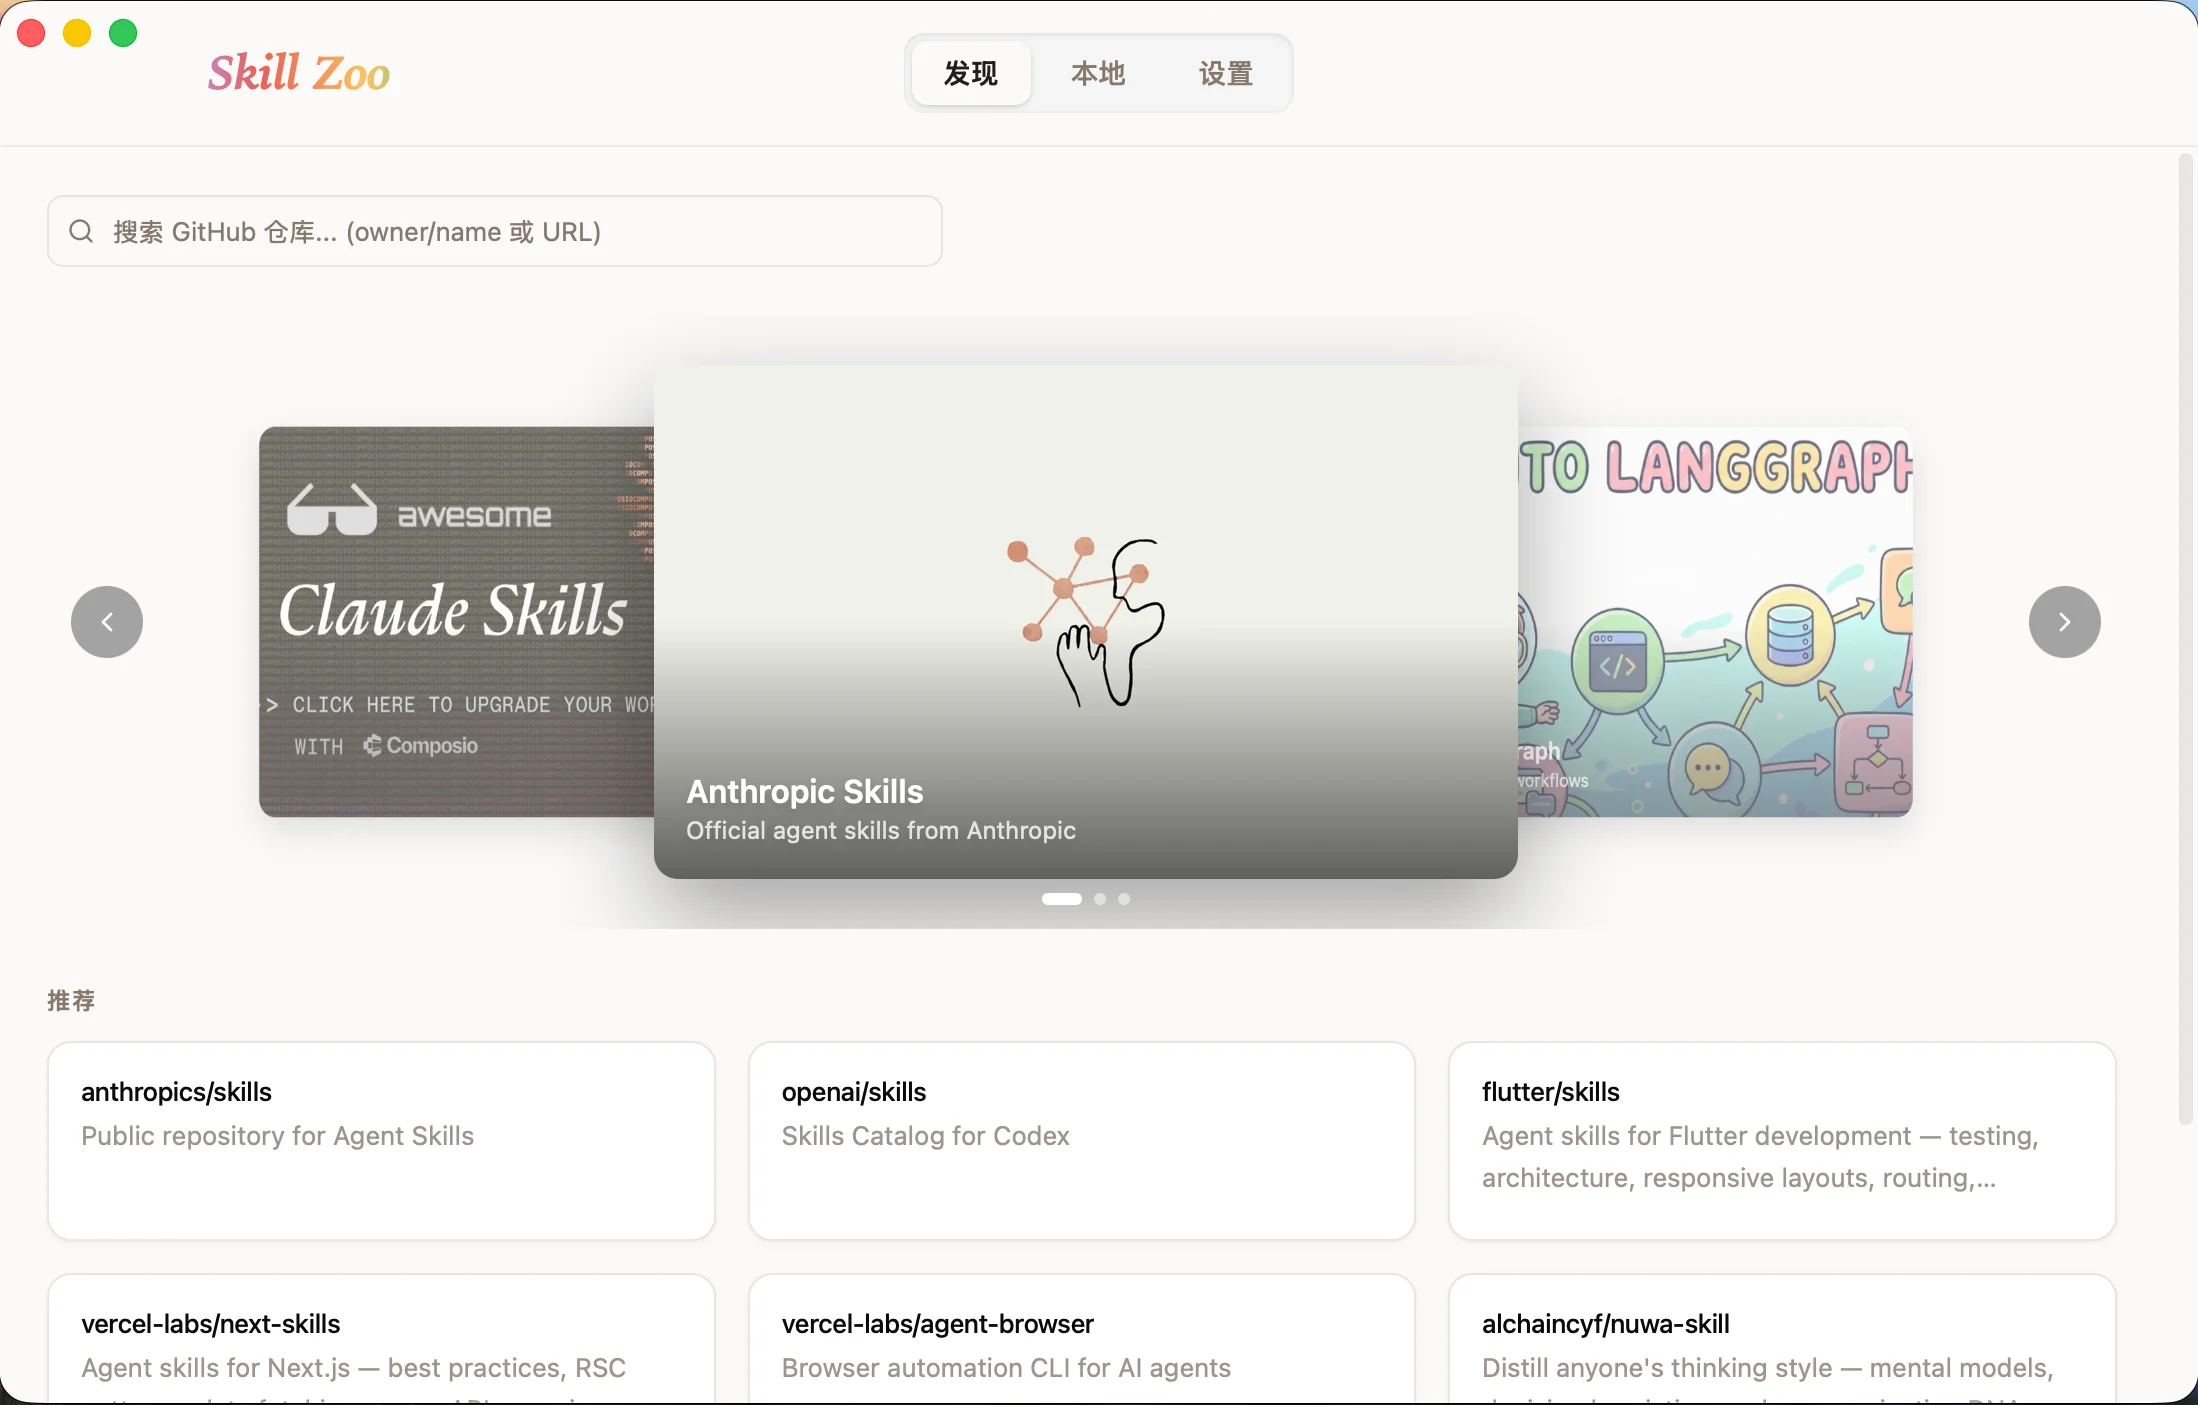
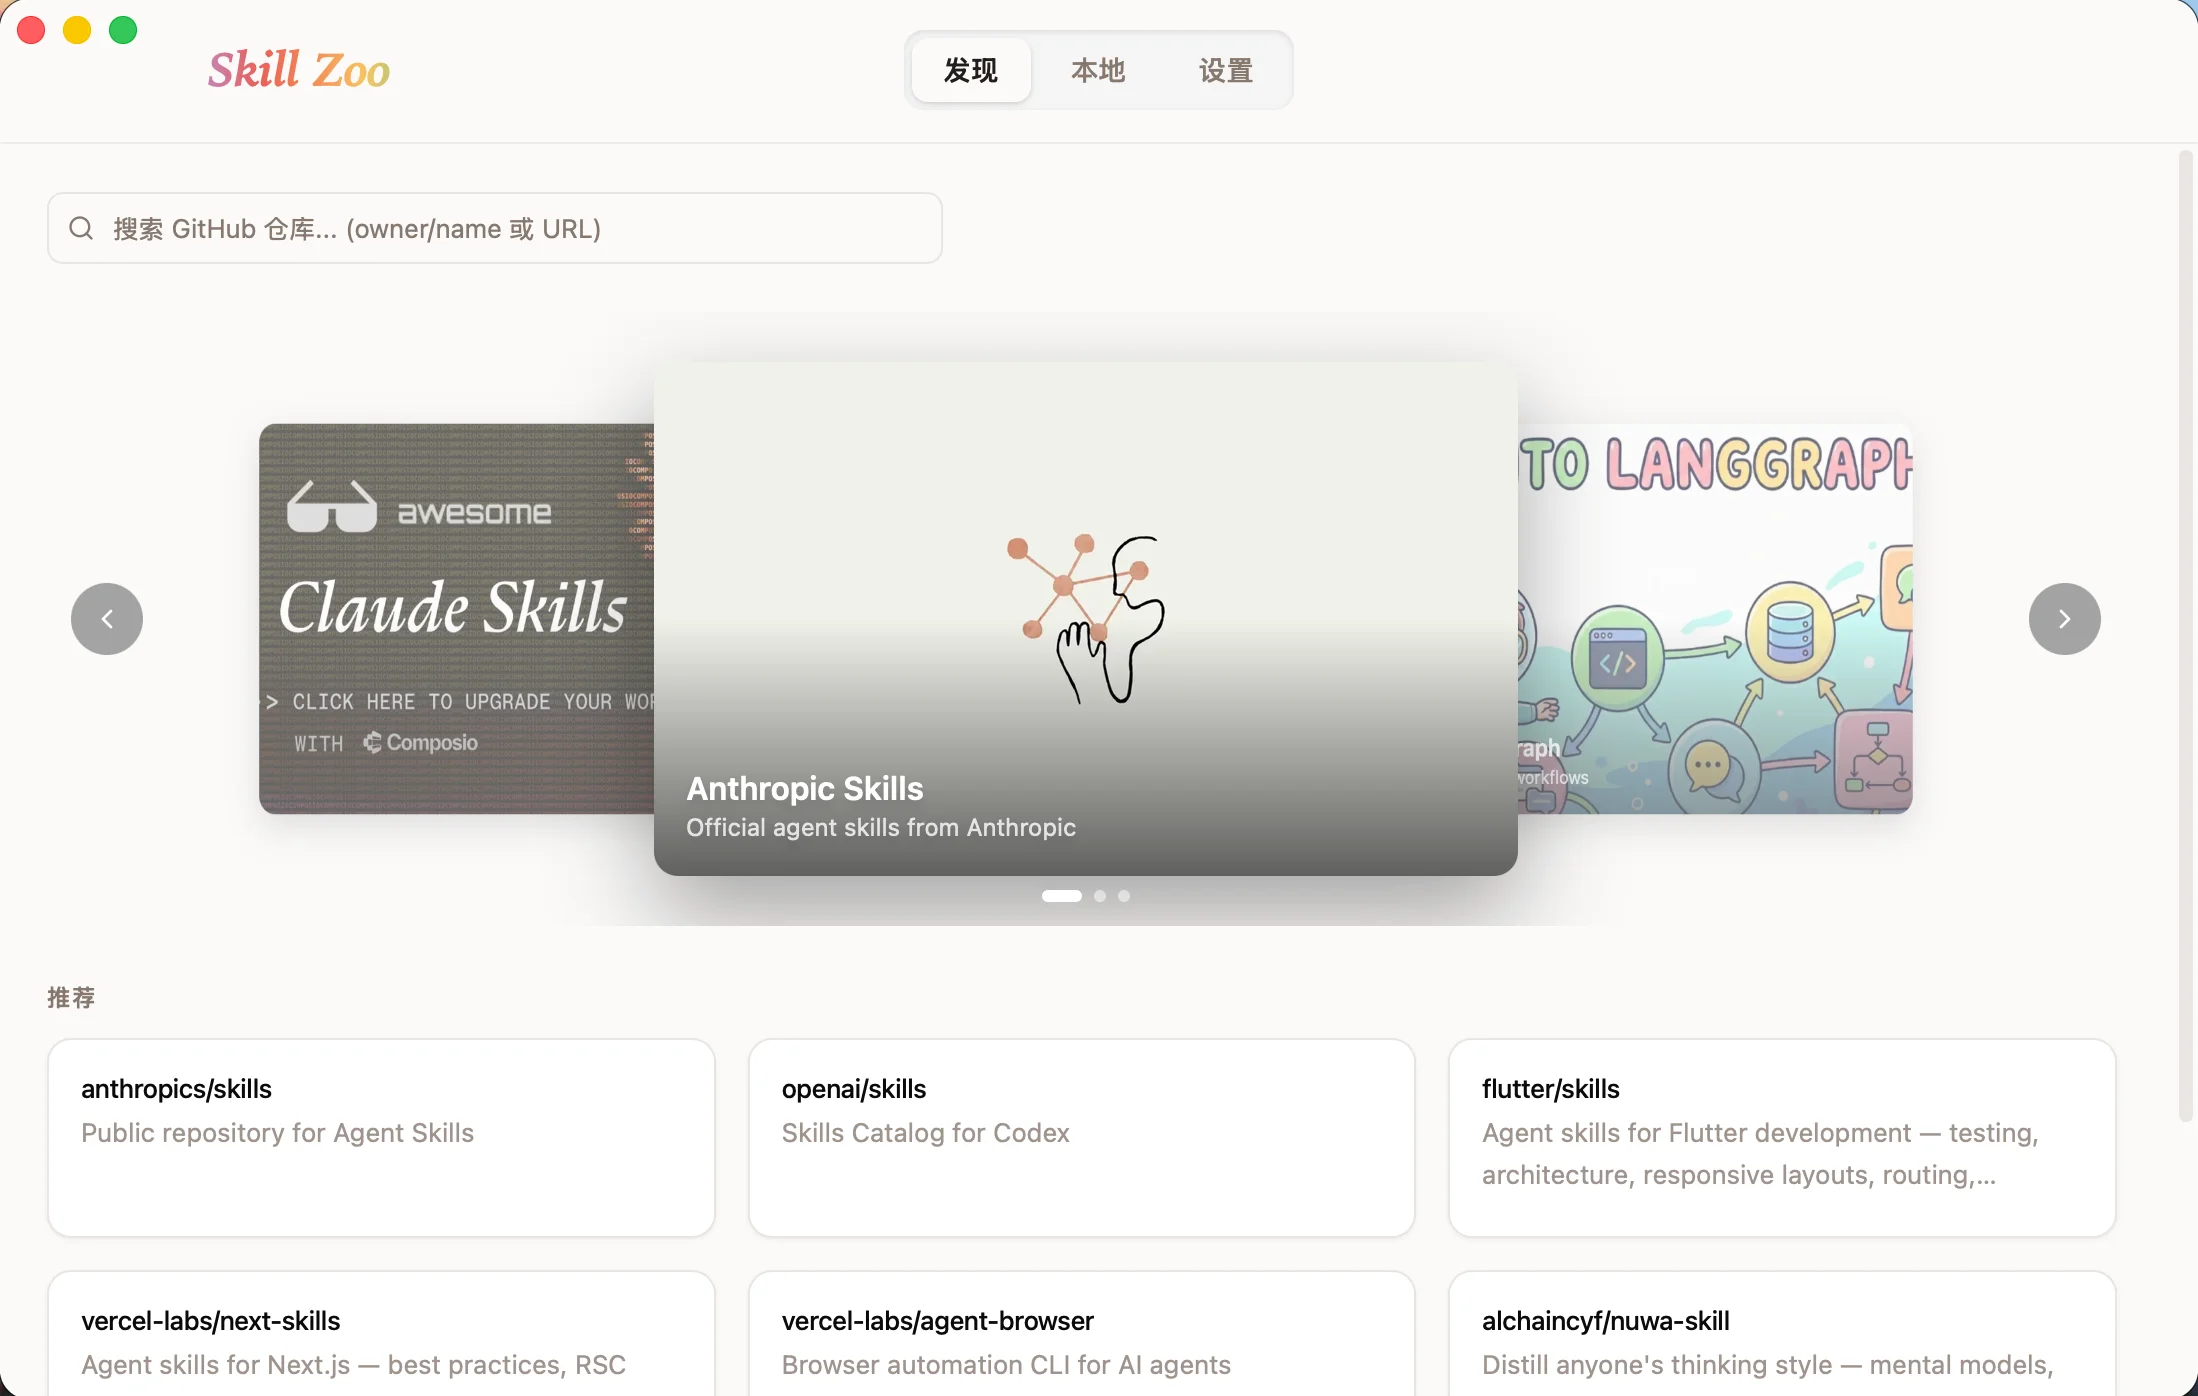
Update landing page screenshot and add macOS quarantine warning
- Replace hero screenshot with transparent rounded-corner WebP
- Add warn icon next to macOS download with xattr tooltip
- Mobile: tooltip triggers on tap instead of hover

diff --git a/docs/index.html b/docs/index.html
@@ -343,6 +343,79 @@ nav .gh-link:hover .gh-icon { opacity: 1; }
 
 .version-tag { font-size: 11px; color: var(--l-text-dim); }
 
+.warn-icon {
+  display: inline-flex;
+  align-items: center;
+  justify-content: center;
+  width: 17px; height: 17px;
+  color: var(--l-text-dim);
+  position: relative;
+  vertical-align: middle;
+  margin-left: 5px;
+  flex-shrink: 0;
+  transition: color .2s;
+}
+.warn-icon svg {
+  width: 17px; height: 17px;
+  display: block;
+}
+.warn-icon:hover {
+  color: #d97706;
+}
+.warn-icon .tooltip {
+  display: none;
+  position: absolute;
+  top: 50%;
+  left: calc(100% + 10px);
+  transform: translateY(-50%);
+  background: rgba(255, 255, 255, 0.92);
+  backdrop-filter: blur(16px) saturate(150%);
+  -webkit-backdrop-filter: blur(16px) saturate(150%);
+  border: 1px solid var(--l-border);
+  color: var(--l-text);
+  font-size: 13px;
+  font-weight: 400;
+  padding: 10px 14px;
+  border-radius: 10px;
+  width: max-content;
+  max-width: 330px;
+  text-align: left;
+  line-height: 1.6;
+  box-shadow: 0 4px 20px rgba(0,0,0,0.06), inset 0 1px 0 rgba(255,255,255,0.5);
+  z-index: 50;
+}
+.warn-icon .tooltip::after {
+  content: '';
+  position: absolute;
+  top: 0;
+  bottom: 0;
+  right: 100%;
+  width: 10px;
+}
+.warn-icon .tooltip code {
+  font-family: 'Geist Mono', monospace;
+  background: rgba(14, 116, 144, 0.12);
+  padding: 1px 5px;
+  border-radius: 4px;
+  font-size: 12px;
+  color: var(--l-accent);
+  white-space: normal;
+}
+.warn-icon .tooltip::before {
+  content: '';
+  position: absolute;
+  top: 50%;
+  right: 100%;
+  left: auto;
+  transform: translateY(-50%);
+  border: 5px solid transparent;
+  border-right-color: var(--l-border);
+}
+.warn-icon:hover .tooltip {
+  display: block;
+}
+
+
 .code-block {
   background: rgba(14, 116, 144, 0.11);
   backdrop-filter: blur(16px) saturate(150%);
@@ -568,6 +641,33 @@ footer a:hover { text-decoration: underline; }
   .showcase-left-content > div { max-width: 100% !important; }
 
 
+  /* Warn icon tooltip — show below, click to toggle */
+  .warn-icon .tooltip {
+    top: calc(100% + 8px);
+    left: 0;
+    right: auto;
+    transform: none;
+    max-width: 260px;
+    font-size: 12px;
+  }
+  .warn-icon .tooltip::after {
+    display: none;
+  }
+  .warn-icon .tooltip::before {
+    content: '';
+    position: absolute;
+    bottom: 100%;
+    left: 8px;
+    border: 5px solid transparent;
+    border-bottom-color: var(--l-border);
+  }
+  .warn-icon:hover .tooltip {
+    display: none;
+  }
+  .warn-icon .tooltip.visible {
+    display: block;
+  }
+
   /* Footer */
   footer { padding: 2vh; font-size: 10px; }
 }
@@ -616,7 +716,13 @@ footer a:hover { text-decoration: underline; }
       <p>Free &amp; open source desktop app. One place for all your AI agent skills.</p>
       <!-- macOS -->
       <div style="width:100%;max-width:340px;">
-        <div style="font-size:13px;font-weight:600;color:var(--l-text);margin-bottom:10px;">macOS</div>
+        <div style="font-size:13px;font-weight:600;color:var(--l-text);margin-bottom:10px;display:flex;align-items:center;">
+          macOS
+          <span class="warn-icon">
+            <svg viewBox="0 0 24 24" fill="none" stroke="currentColor" stroke-width="2.5" stroke-linecap="round" stroke-linejoin="round"><circle cx="12" cy="12" r="10"/><line x1="12" y1="8" x2="12" y2="12"/><circle cx="12" cy="16" r="1" fill="currentColor" stroke="none"/></svg>
+            <span class="tooltip">If you see "skill-zoo" is damaged and can't be opened, run <code>xattr -d com.apple.quarantine /Applications/skill-zoo.app</code> in Terminal.</span>
+          </span>
+        </div>
         <div class="code-block">
           <button class="copy-btn" aria-label="Copy" data-copy>
             <svg width="14" height="14" viewBox="0 0 24 24" fill="none" stroke="currentColor" stroke-width="2" stroke-linecap="round" stroke-linejoin="round"><rect x="9" y="9" width="13" height="13" rx="2" ry="2"/><path d="M5 15H4a2 2 0 0 1-2-2V4a2 2 0 0 1 2-2h9a2 2 0 0 1 2 2v1"/></svg>
@@ -853,6 +959,25 @@ document.querySelectorAll('.copy-btn').forEach(btn => {
       setTimeout(() => btn.classList.remove('copied'), 1500);
     }
   });
+});
+
+// Warn icon: click to toggle tooltip on touch devices
+document.querySelectorAll('.warn-icon').forEach(icon => {
+  icon.addEventListener('click', (e) => {
+    if (window.matchMedia('(hover: hover)').matches) return;
+    e.stopPropagation();
+    const tip = icon.querySelector('.tooltip');
+    if (!tip) return;
+    // Close all other open tooltips
+    document.querySelectorAll('.warn-icon .tooltip.visible').forEach(t => {
+      if (t !== tip) t.classList.remove('visible');
+    });
+    tip.classList.toggle('visible');
+  });
+});
+// Click outside to dismiss
+document.addEventListener('click', () => {
+  document.querySelectorAll('.warn-icon .tooltip.visible').forEach(t => t.classList.remove('visible'));
 });
 
 </script>

diff --git a/README.md b/README.md
@@ -7,7 +7,7 @@
 
 Local Agent Skill manager — browse, install, and manage skills for Claude Code, Codex, Cursor, Gemini, and more.
 
-![app-screenshot](docs/screenshots/screenshot-1.webp)
+![app-screenshot](docs/home-page.webp)
 
 ## 🚀 Features
 

diff --git a/README_zh-CN.md b/README_zh-CN.md
@@ -7,7 +7,7 @@
 
 本地 Agent Skill 管理器 — 浏览、安装、管理 Claude Code、Codex、Cursor、Gemini 等工具的技能。
 
-![app-screenshot](docs/screenshots/screenshot-1.webp)
+![app-screenshot](docs/home-page.webp)
 
 ## 🚀 功能
 